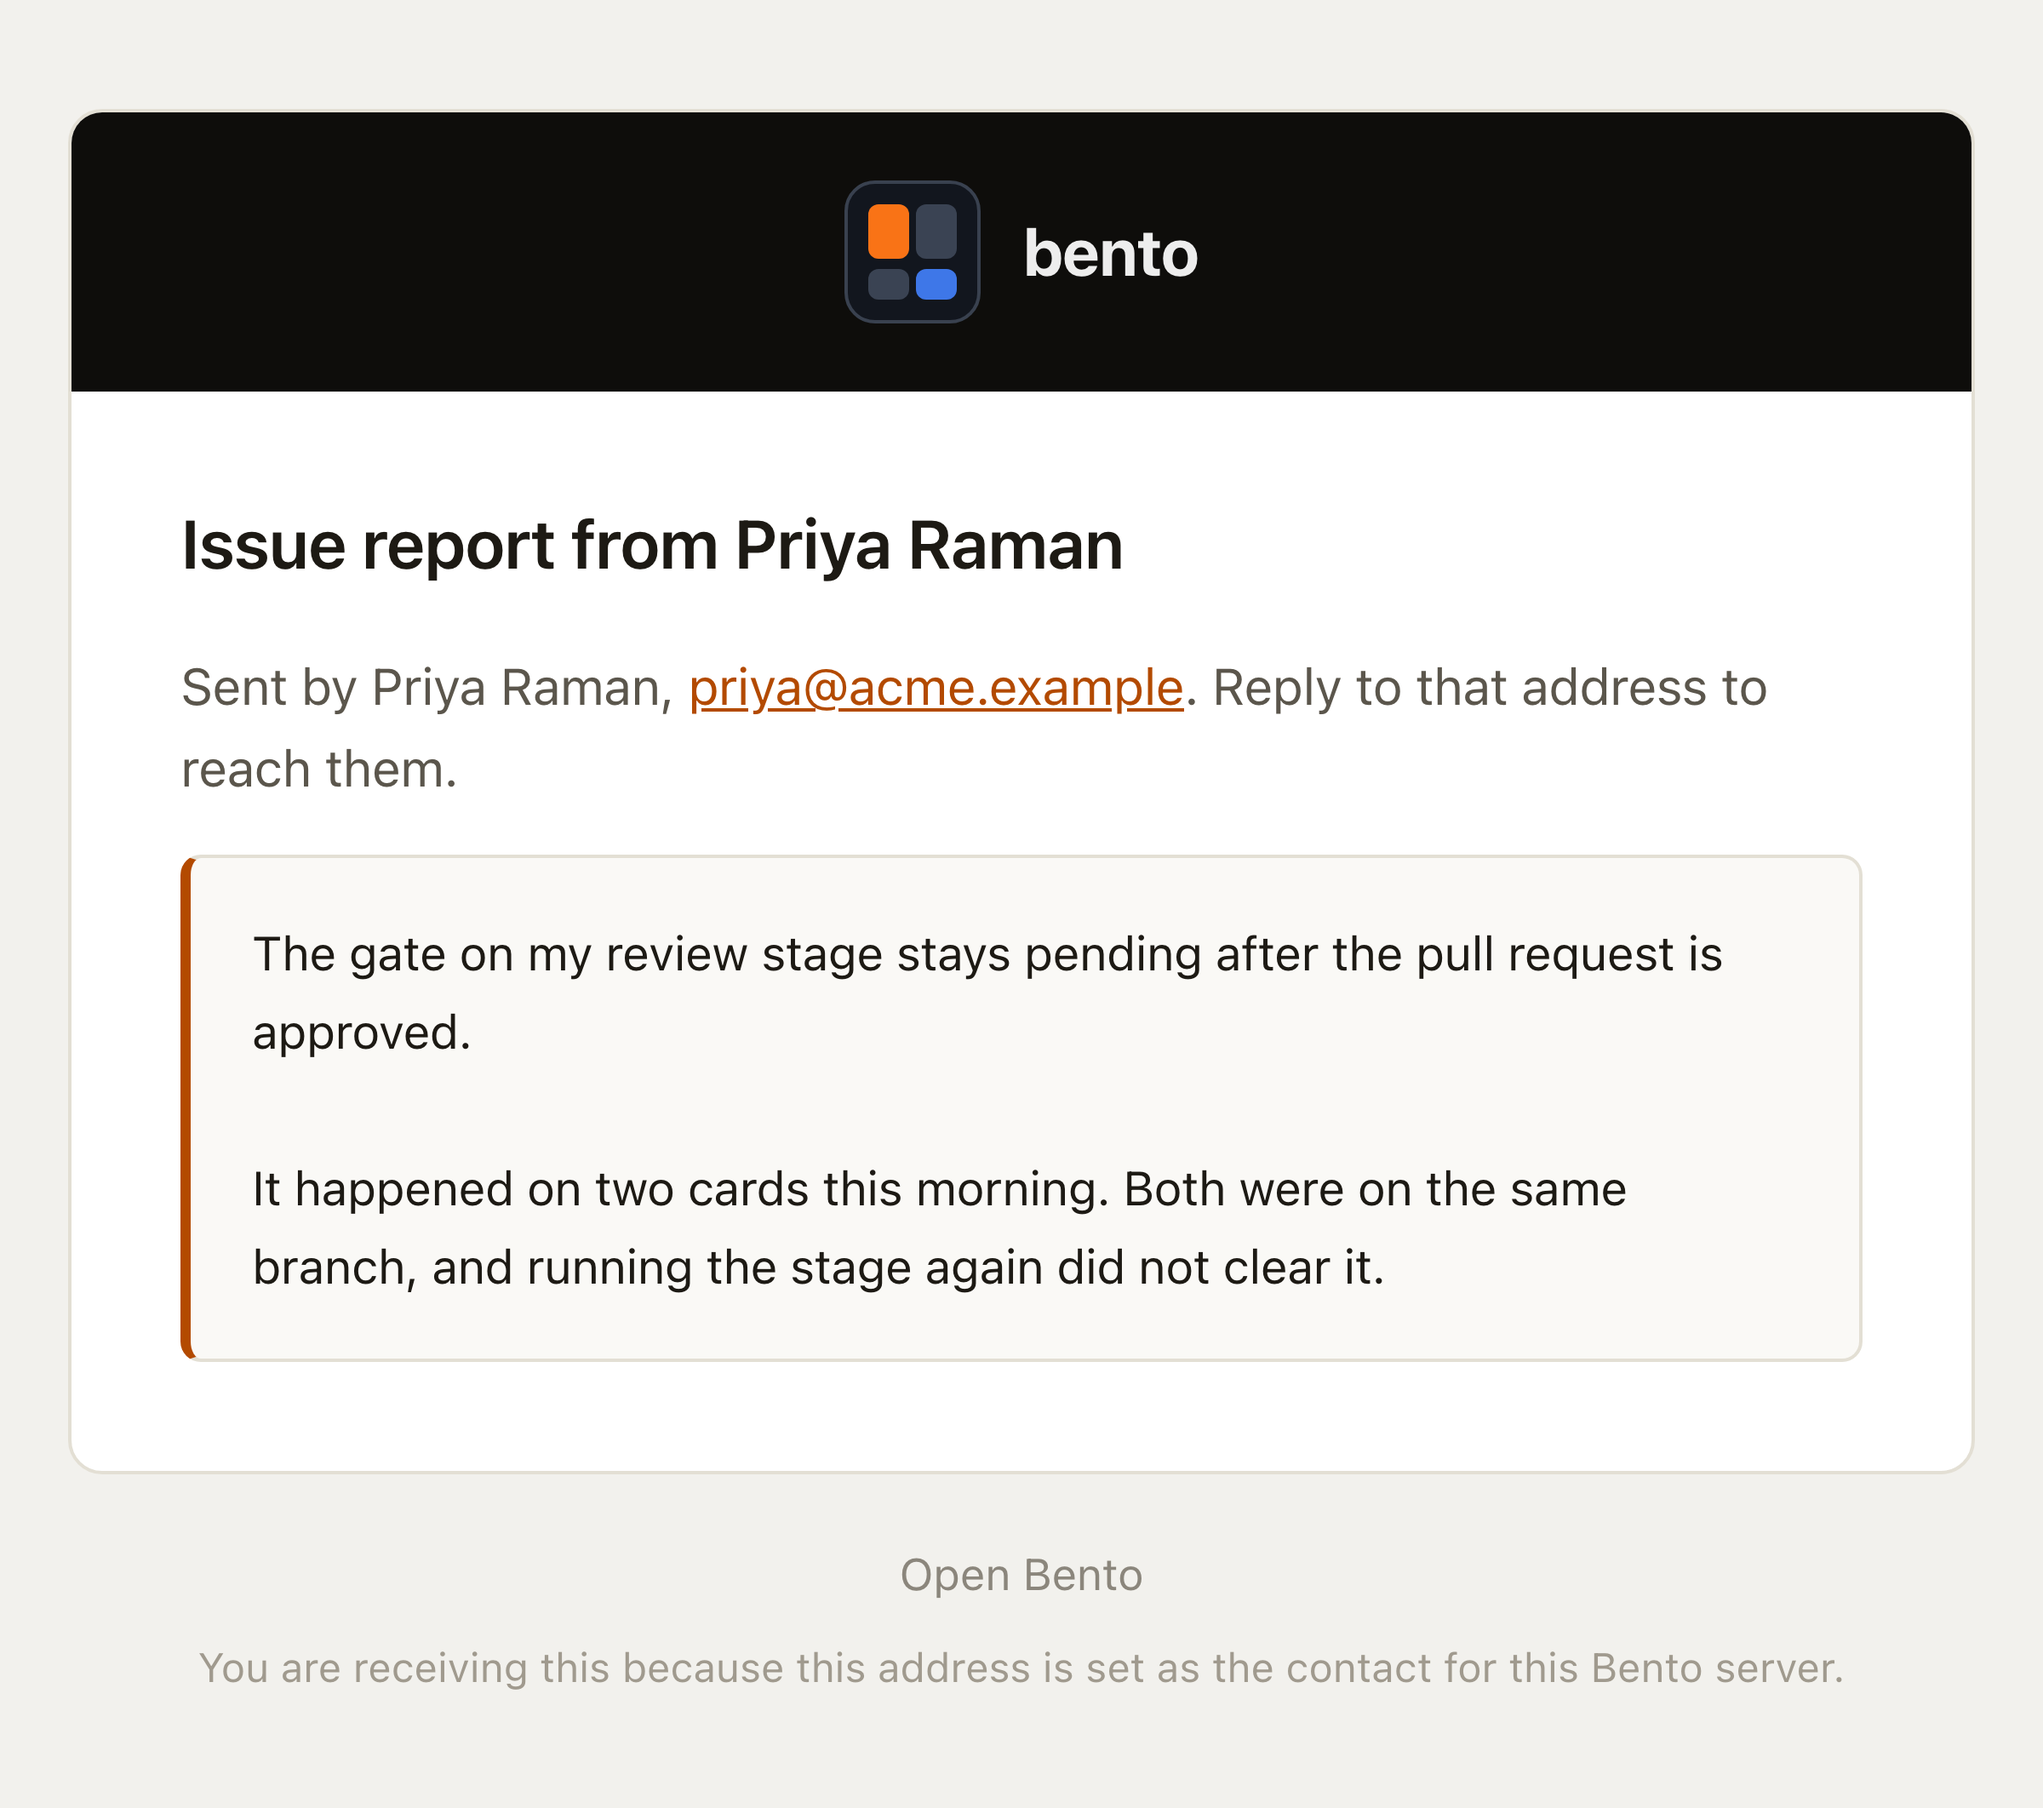
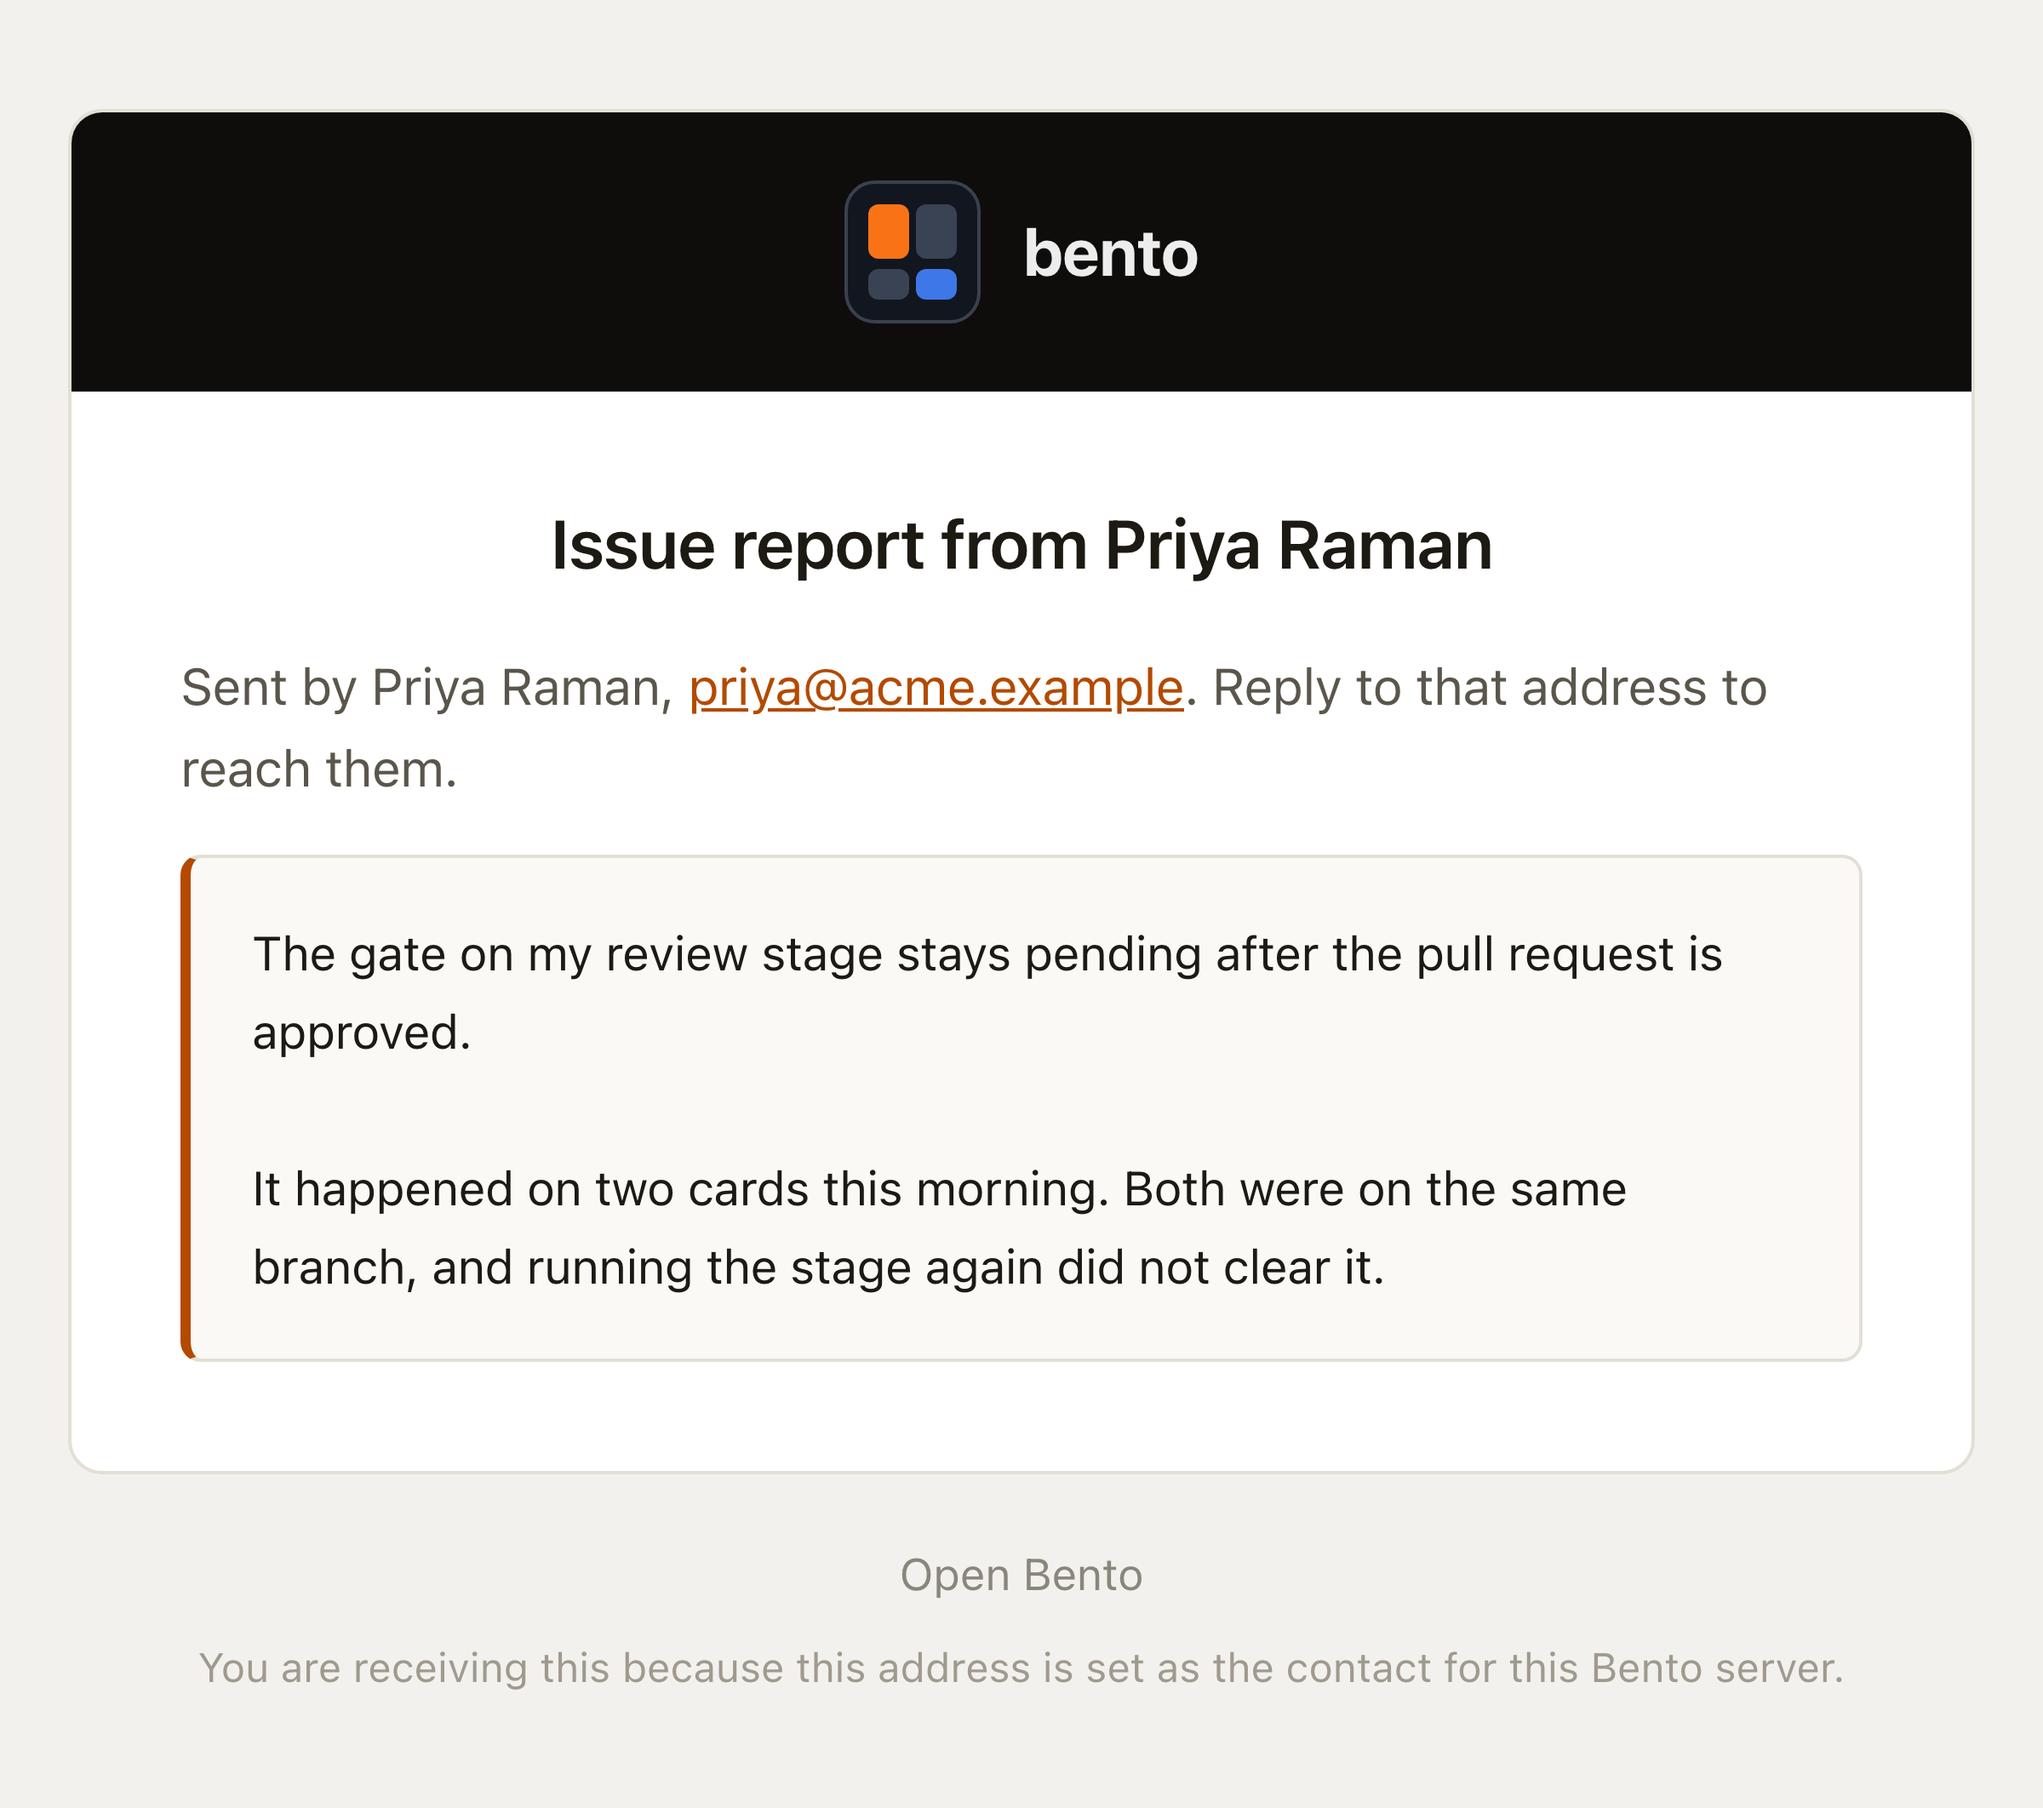
Centre the heading
The mark, the button, and the footer are centred, which left the
heading as the only thing still sitting to one side.

Body copy stays left. Centred prose is harder to read once it wraps,
and these paragraphs wrap.

Changed region(s): [[0.0938, 0.2797, 0.7188, 0.3418]]

diff --git a/apps/server/src/mail.test.ts b/apps/server/src/mail.test.ts
@@ -120,6 +120,14 @@ test("the mark and the wordmark are centred in the header band", () => {
   assert.match(body, /<table role="presentation" align="center"[^>]*margin:0 auto;"><tr>\s*<td style="padding-right:12px;">/);
 });
 
+test("the heading is centred and the body copy is not", () => {
+  const body = invitation().html ?? "";
+  assert.match(body, /<h1 [^>]*text-align:center;">Alice invited you to Acme Robotics<\/h1>/);
+  // Paragraphs stay left: centred prose is harder to read once it
+  // wraps, and these wrap.
+  assert.doesNotMatch(body, /<p style="margin:0 0 14px;[^"]*text-align:center/);
+});
+
 test("the action button is centred, by attribute as well as by margin", () => {
   const body = invitation().html ?? "";
   // Outlook ignores margin:auto on a table, so the align attribute is

diff --git a/apps/server/src/email-layout.ts b/apps/server/src/email-layout.ts
@@ -189,7 +189,7 @@ function mark(): string {
 function body(input: EmailLayoutInput): string {
   const parts = [
     '<tr><td style="padding:32px;">',
-    `<h1 style="margin:0 0 16px;font-family:${SANS};font-size:20px;line-height:1.3;font-weight:600;color:${TEXT};">${escapeHtml(input.heading)}</h1>`,
+    `<h1 style="margin:0 0 16px;font-family:${SANS};font-size:20px;line-height:1.3;font-weight:600;color:${TEXT};text-align:center;">${escapeHtml(input.heading)}</h1>`,
   ];
 
   for (const paragraph of input.paragraphs) {
